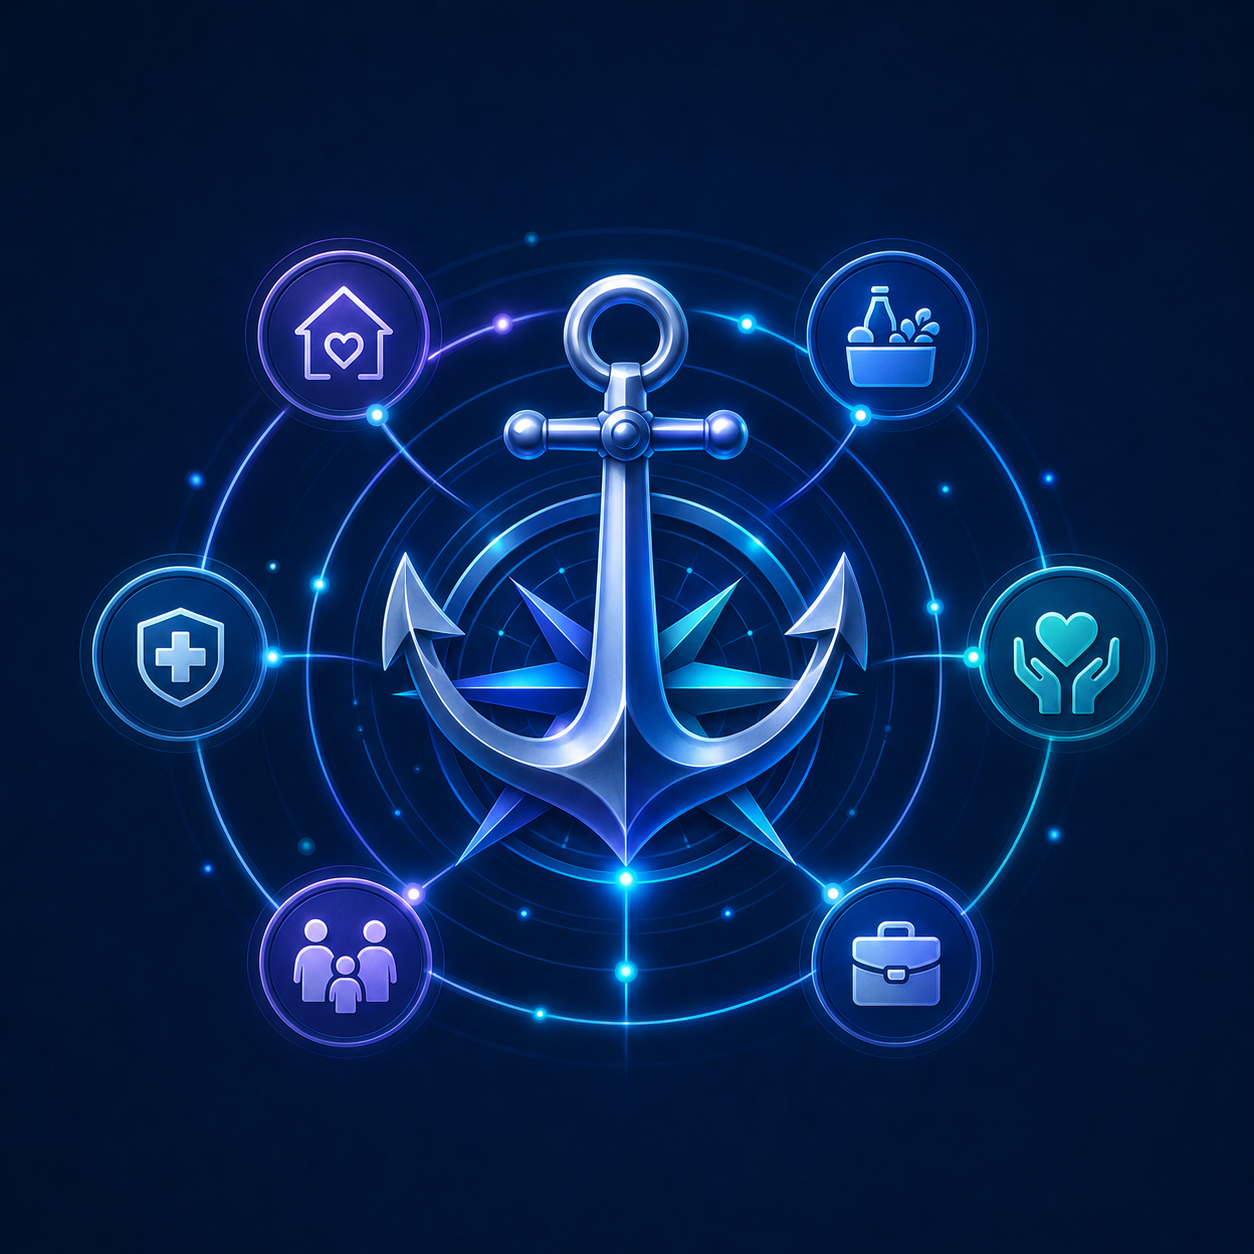
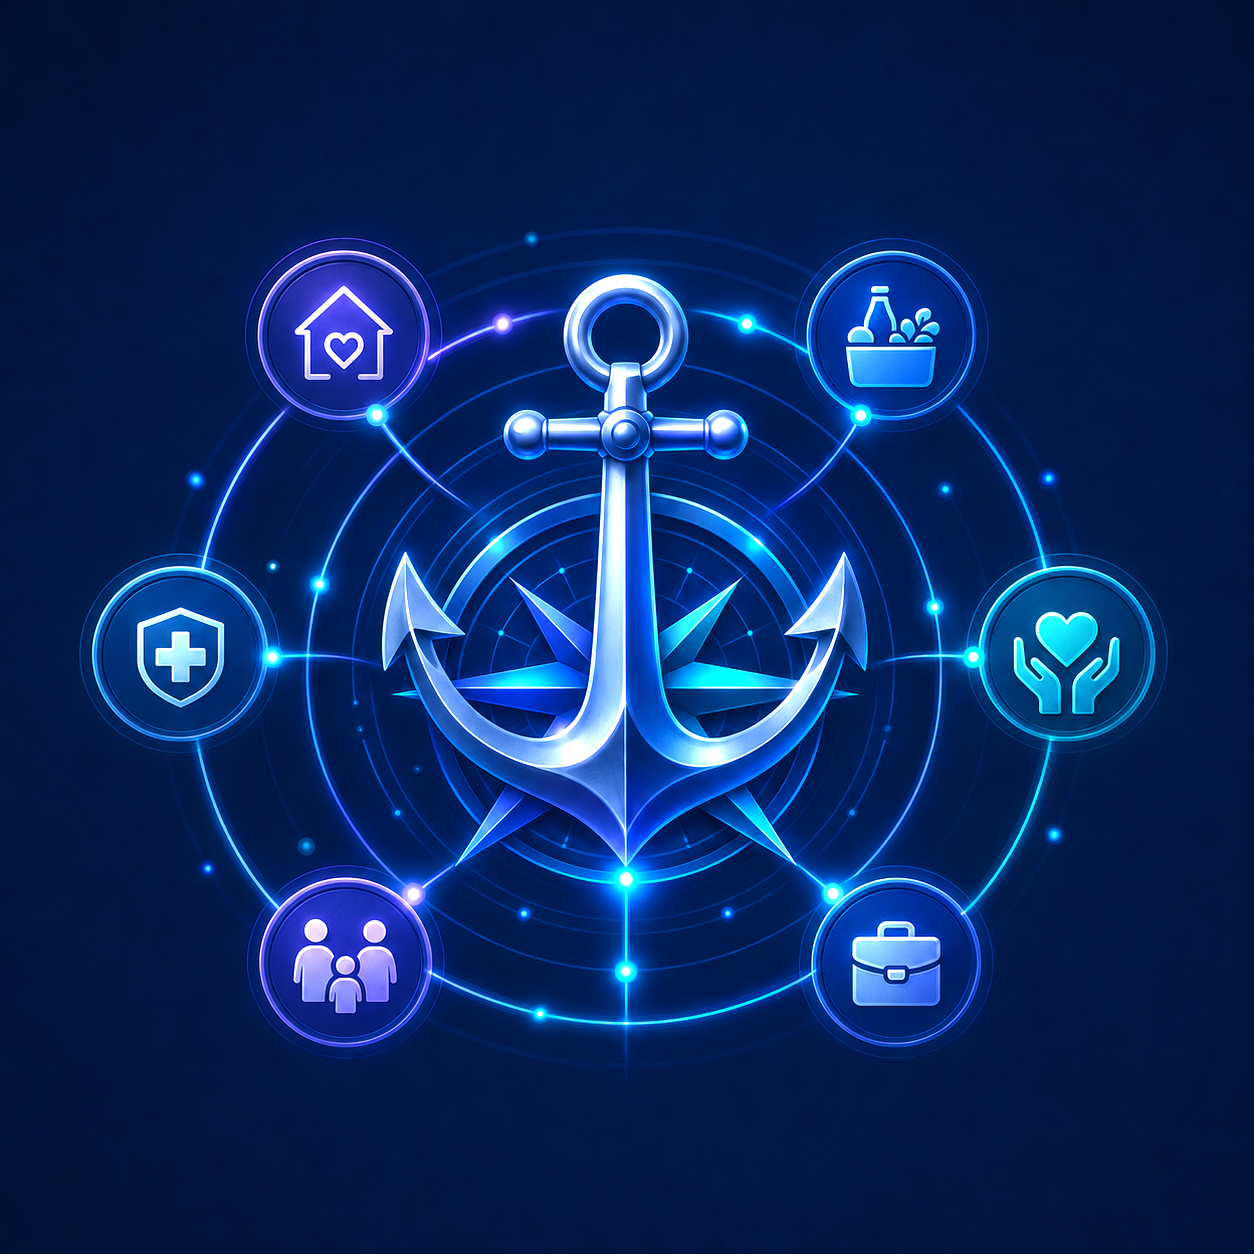
Update Anchor Point UI with imagery and app shell

Changed region(s): [[0.0622, 0.1866, 0.933, 0.8397]]

diff --git a/index.html b/index.html
@@ -1,12 +1,12 @@
-<!doctype html><html lang="en"><head><meta charset="utf-8"><meta name="viewport" content="width=device-width,initial-scale=1"><title>Anchor Point Resource Portal</title><link rel="stylesheet" href="assets/css/styles.css?v=1.9"></head><body data-page="home">
+<!doctype html><html lang="en"><head><meta charset="utf-8"><meta name="viewport" content="width=device-width,initial-scale=1"><title>Anchor Point Resource Portal</title><link rel="stylesheet" href="assets/css/styles.css?v=1.10"></head><body data-page="home">
 <div class="app">
 <aside class="rail"><a class="brand" href="index.html"><span class="logo">AP</span><span><strong>Anchor Point</strong><span>Resource Portal</span></span></a><nav class="nav"><a class="active" href="index.html"><i>⌘</i>Command</a><a href="resources.html"><i>⌕</i>Search</a><a href="guide.html"><i>▣</i>Guide Builder</a></nav><div class="rail-visual"><img src="assets/img/anchor-emblem.png" alt="Anchor Point network emblem"></div><div class="rail-meta"><span>Data source</span><b id="railRecordCount">Loading</b><span>Browser storage only. No caller data saved.</span></div></aside>
 <main class="main">
 <section class="topbar"><form class="command" id="homeSearchForm"><span class="icon">⌕</span><input id="homeSearch" aria-label="Search resources" placeholder="Search housing, food, benefits, recovery, ECTLC..."><button class="btn primary" type="submit">Search</button></form><div class="top-actions"><a class="btn" href="resources.html">Open Search</a><a class="btn" href="guide.html">Build Guide <span id="topSelectedCount">0</span></a></div></section>
-<section class="hero"><div class="hero-copy"><div class="kicker">Call Center Resource System <span class="version-pill">v1.9</span></div><h1>Find the right resource fast.</h1><p>A compact, search-first portal for Anchor Point staff. Browse verified resource records, select caller-ready referrals, and print dense custom guides without storing caller information.</p><div class="pill-row"><a class="pill hot" href="resources.html?urgency=Immediate%20(24%2F7)">Immediate 24/7</a><a class="pill" href="resources.html?q=shelter">Shelter</a><a class="pill" href="resources.html?q=benefits">Benefits</a><a class="pill" href="resources.html?q=job">Job Search</a><a class="pill" href="resources.html?q=ECTLC">ECTLC</a></div></div><div class="hero-img"><img src="assets/img/hero-anchor-network.png" alt="Anchor Point connected community resource network"></div></section>
+<section class="hero"><div class="hero-copy"><div class="kicker">Call Center Resource System <span class="version-pill">v1.10</span></div><h1>Find the right resource fast.</h1><p>A compact, search-first portal for Anchor Point staff. Browse verified resource records, select caller-ready referrals, and print dense custom guides without storing caller information.</p><div class="pill-row"><a class="pill hot" href="resources.html?urgency=Immediate%20(24%2F7)">Immediate 24/7</a><a class="pill" href="resources.html?q=shelter">Shelter</a><a class="pill" href="resources.html?q=benefits">Benefits</a><a class="pill" href="resources.html?q=job">Job Search</a><a class="pill" href="resources.html?q=ECTLC">ECTLC</a></div></div><div class="hero-img"><img src="assets/img/hero-anchor-network.png" alt="Anchor Point connected community resource network"></div></section>
 <section class="grid-3"><div class="compact-card"><span class="num" id="statRecords">-</span><strong>Resource records</strong><p>Loaded from corrected JSON.</p></div><div class="compact-card"><span class="num" id="statCategories">-</span><strong>Categories</strong><p>Filtered by need, urgency, population, and location.</p></div><div class="compact-card"><span class="num" id="statSelected">0</span><strong>Selected for guide</strong><p>Selections stay in this browser only.</p></div></section>
 <section class="section-head"><div><h2>Common workflows</h2><p>Start from caller need, not organization name.</p></div><a class="btn" href="resources.html">Full resource browser</a></section>
 <section class="grid-3"><a class="compact-card" href="resources.html?workflow=food"><strong>Food / EBT</strong><p>CalFresh, food pantry, nutrition resources.</p></a><a class="compact-card" href="resources.html?workflow=housing"><strong>Housing / Shelter</strong><p>Shelter, outreach, emergency housing, coordinated entry.</p></a><a class="compact-card" href="resources.html?workflow=recovery"><strong>Recovery / Health</strong><p>SUD, behavioral health, medical, crisis lines.</p></a><a class="compact-card" href="resources.html?workflow=documents"><strong>ID / Documents</strong><p>Vital records, mail services, identification help.</p></a><a class="compact-card" href="resources.html?workflow=families"><strong>Families</strong><p>Family support, children, school-based services.</p></a><a class="compact-card" href="resources.html?workflow=jobs"><strong>Job Search</strong><p>Workforce and job application resources.</p></a></section>
 </main>
 <aside class="tray" id="guideTray"><button class="btn mobile-tray-toggle" id="trayToggle">Selected Guide</button><div class="tray-head"><h2>Guide Tray</h2><button class="mini-btn tray-hide" id="trayHideBtn" type="button">Hide</button></div><div class="tray-sub"><span id="trayCount">0</span> selected resources</div><div class="guide-list" id="selectedList"><div class="empty">No resources selected yet.</div></div><div class="drawer-actions"><a class="btn primary" href="guide.html">Open Guide</a><button class="btn" id="copyGuideBtn">Copy</button><button class="btn" id="printGuideBtn">Print</button><button class="btn danger" id="clearSelectedBtn">Clear</button></div></aside>
-</div><div id="printArea" class="print-area"></div><script src="assets/js/app.js?v=1.9"></script></body></html>
+</div><div id="printArea" class="print-area"></div><script src="assets/js/app.js?v=1.10"></script></body></html>

diff --git a/resources.html b/resources.html
@@ -1,8 +1,8 @@
-<!doctype html><html lang="en"><head><meta charset="utf-8"><meta name="viewport" content="width=device-width,initial-scale=1"><title>Resource Search | Anchor Point</title><link rel="stylesheet" href="assets/css/styles.css?v=1.9"></head><body data-page="resources">
+<!doctype html><html lang="en"><head><meta charset="utf-8"><meta name="viewport" content="width=device-width,initial-scale=1"><title>Resource Search | Anchor Point</title><link rel="stylesheet" href="assets/css/styles.css?v=1.10"></head><body data-page="resources">
 <div class="app"><aside class="rail"><a class="brand" href="index.html"><span class="logo">AP</span><span><strong>Anchor Point</strong><span>Resource Portal</span></span></a><nav class="nav"><a href="index.html"><i>⌘</i>Command</a><a class="active" href="resources.html"><i>⌕</i>Search</a><a href="guide.html"><i>▣</i>Guide Builder</a></nav><div class="rail-visual"><img src="assets/img/dashboard-browser.png" alt="Anchor Point resource browser concept"></div><div class="rail-meta"><span>Data source</span><b id="railRecordCount">Loading</b><span>Corrected Summary Tab JSON.</span></div></aside>
 <main class="main"><section class="topbar"><form class="command" id="searchForm"><span class="icon">⌕</span><input id="q" aria-label="Search resources" placeholder="Search need, organization, phone, location, notes..."><button class="btn primary" type="submit">Search</button></form><div class="top-actions"><button class="btn" id="trayCollapseBtn" type="button">Show Tray</button><a class="btn" href="guide.html">Open Guide <span id="topSelectedCount">0</span></a></div></section>
 <section class="search-tip">Tip: Use quotes for exact phrase search, for example <code>&quot;crisis house&quot;</code>. Manual searches require all typed words to match. Workflow buttons use broader related-term matching.</section>
 <section class="panel"><div class="filters"><div class="field"><label>Keyword</label><input id="keyword" aria-label="Keyword search" placeholder="housing, shelter, ECTLC, CalFresh..."></div><div class="field"><label>Category</label><select id="category"><option value="">All categories</option></select></div><div class="field"><label>Urgency</label><select id="urgency"><option value="">All urgency levels</option></select></div><div class="field"><label>Population</label><select id="population"><option value="">All populations</option></select></div><div class="field"><label>Location contains</label><input id="location" aria-label="Location contains" placeholder="El Cajon, East County..."></div><button class="btn" id="clearFilters" type="button">Clear Search</button></div></section>
 <section class="workflow-context" id="activeWorkflow"></section>
 <section class="toolbar"><div><strong id="resultCount">Loading</strong> <span id="filterSummary"></span> <span class="selected-inline">Selected: <b id="selectedInlineCount">0</b></span></div><div class="toolbar-actions"><label>Sort <select id="sortMode"><option value="urgency">Urgency</option><option value="name">Name</option><option value="category">Category</option><option value="verified">Verified Date</option></select></label><label>View <select id="viewMode"><option value="cards">Cards</option><option value="list">Compact List</option></select></label><button class="mini-btn" id="showSelectedBtn">Show Selected</button><button class="mini-btn danger" id="clearSelectedBtn">Clear Selected</button></div></section><section class="results" id="results"><div class="empty">Loading resources...</div></section></main>
-<aside class="tray" id="guideTray"><button class="btn mobile-tray-toggle" id="trayToggle">Selected Guide</button><div class="tray-head"><h2>Guide Tray</h2><button class="mini-btn tray-hide" id="trayHideBtn" type="button">Hide</button></div><div class="tray-sub"><span id="trayCount">0</span> selected resources</div><div class="guide-list" id="selectedList"><div class="empty">No resources selected yet.</div></div><div class="drawer-actions"><a class="btn primary" href="guide.html">Open Guide</a><button class="btn" id="copyGuideBtn">Copy</button><button class="btn" id="printGuideBtn">Print</button><button class="btn danger" id="clearSelectedBtn2">Clear</button></div></aside></div><div id="printArea" class="print-area"></div><script src="assets/js/app.js?v=1.9"></script></body></html>
+<aside class="tray" id="guideTray"><button class="btn mobile-tray-toggle" id="trayToggle">Selected Guide</button><div class="tray-head"><h2>Guide Tray</h2><button class="mini-btn tray-hide" id="trayHideBtn" type="button">Hide</button></div><div class="tray-sub"><span id="trayCount">0</span> selected resources</div><div class="guide-list" id="selectedList"><div class="empty">No resources selected yet.</div></div><div class="drawer-actions"><a class="btn primary" href="guide.html">Open Guide</a><button class="btn" id="copyGuideBtn">Copy</button><button class="btn" id="printGuideBtn">Print</button><button class="btn danger" id="clearSelectedBtn2">Clear</button></div></aside></div><div id="printArea" class="print-area"></div><script src="assets/js/app.js?v=1.10"></script></body></html>

diff --git a/assets/css/styles.css b/assets/css/styles.css
@@ -161,3 +161,36 @@ body[data-page="resources"] .top-actions{white-space:nowrap;}
     grid-template-columns:1fr!important;
   }
 }
+
+/* V1.10 final fit-and-polish refinements */
+.version-pill{display:inline-flex;align-items:center;justify-content:center;margin-left:6px;padding:2px 6px;border-radius:999px;background:rgba(40,240,198,.12);border:1px solid rgba(40,240,198,.28);color:#8ffbea;font-size:10px;letter-spacing:.06em;vertical-align:middle;white-space:nowrap;}
+.hero-img img,.rail-visual img{filter:brightness(1.22) contrast(1.03) saturate(1.14)!important;opacity:1!important;}
+.hero-img:before{background:linear-gradient(90deg,rgba(15,28,51,.72) 0%,rgba(15,28,51,.28) 30%,rgba(15,28,51,.04) 76%,transparent 100%)!important;}
+.rail-visual:after{background:linear-gradient(180deg,rgba(7,17,32,.08),rgba(7,17,32,.52))!important;}
+.drawer-actions .btn,.drawer-actions a.btn,.card-actions .mini-btn,.top-actions .btn{display:inline-flex;align-items:center;justify-content:center;text-align:center;line-height:1.05;}
+.drawer-actions .btn,.drawer-actions a.btn{min-height:38px;white-space:nowrap;}
+body[data-page="resources"] .app{width:100%;max-width:100vw;margin:0;grid-template-columns:220px minmax(0,1fr) 280px!important;gap:10px;padding:8px 12px!important;overflow:hidden;}
+body[data-page="resources"] .app.tray-collapsed{grid-template-columns:220px minmax(0,1fr)!important;padding-right:14px!important;}
+body[data-page="resources"] .main{min-width:0;max-width:100%;overflow:hidden;}
+body[data-page="resources"] .topbar{grid-template-columns:minmax(0,1fr) auto!important;gap:8px;min-width:0;}
+body[data-page="resources"] .command{min-width:0;height:48px;border-radius:14px;}
+body[data-page="resources"] .command input{min-width:0;}
+body[data-page="resources"] .top-actions{display:flex;flex:0 0 auto;gap:6px;min-width:max-content;}
+body[data-page="resources"] .top-actions .btn{min-width:86px;padding:8px 10px;border-radius:11px;white-space:nowrap;}
+body[data-page="resources"] .search-tip{padding:7px 10px;font-size:12px;line-height:1.25;}
+body[data-page="resources"] .panel{padding:10px;overflow:hidden;}
+body[data-page="resources"] .filters{grid-template-columns:minmax(140px,.95fr) minmax(168px,1.25fr) minmax(132px,.8fr) minmax(165px,1fr) minmax(145px,.85fr) auto!important;gap:7px;align-items:end;}
+body[data-page="resources"] .filters .field{min-width:0;}
+body[data-page="resources"] input,body[data-page="resources"] select{min-width:0;min-height:36px;padding:8px 9px;border-radius:10px;}
+body[data-page="resources"] .toolbar{min-width:0;display:flex;flex-wrap:wrap;gap:8px;}
+body[data-page="resources"] .toolbar-actions{min-width:0;}
+body[data-page="resources"] .results{grid-template-columns:repeat(2,minmax(0,1fr))!important;gap:10px!important;width:100%;max-width:100%;overflow:visible!important;}
+body[data-page="resources"] .app.tray-collapsed .results{grid-template-columns:repeat(2,minmax(0,1fr))!important;}
+body[data-page="resources"] .resource-card{min-width:0;max-width:100%;overflow:hidden;}
+body[data-page="resources"] .tray{width:100%;max-width:280px;}
+body[data-page="resources"] .floating-show-tray{right:14px;bottom:18px;min-width:130px;}
+.status{min-width:76px!important;max-width:86px!important;padding:4px 6px!important;}
+.status b{font-size:9.8px!important;}.status small{font-size:7.8px!important;}
+@media(min-width:2050px){body[data-page="resources"] .app.tray-collapsed .results{grid-template-columns:repeat(3,minmax(0,1fr))!important;}}
+@media(max-width:1500px){body[data-page="resources"] .app,body[data-page="resources"] .app.tray-collapsed{grid-template-columns:208px minmax(0,1fr)!important;}body[data-page="resources"] .tray{display:none!important;}body[data-page="resources"] .results,body[data-page="resources"] .app.tray-collapsed .results{grid-template-columns:repeat(2,minmax(0,1fr))!important;}body[data-page="resources"] .filters{grid-template-columns:1fr 1fr 1fr!important;}body[data-page="resources"] .filters .btn{grid-column:auto;}}
+@media(max-width:1050px){body[data-page="resources"] .results,body[data-page="resources"] .app.tray-collapsed .results{grid-template-columns:1fr!important;}body[data-page="resources"] .filters{grid-template-columns:1fr 1fr!important;}body[data-page="resources"] .topbar{grid-template-columns:1fr!important;}body[data-page="resources"] .top-actions{justify-content:flex-end;}}

diff --git a/guide.html b/guide.html
@@ -1,5 +1,5 @@
-<!doctype html><html lang="en"><head><meta charset="utf-8"><meta name="viewport" content="width=device-width,initial-scale=1"><title>Guide Builder | Anchor Point</title><link rel="stylesheet" href="assets/css/styles.css?v=1.9"></head><body data-page="guide">
+<!doctype html><html lang="en"><head><meta charset="utf-8"><meta name="viewport" content="width=device-width,initial-scale=1"><title>Guide Builder | Anchor Point</title><link rel="stylesheet" href="assets/css/styles.css?v=1.10"></head><body data-page="guide">
 <div class="app"><aside class="rail"><a class="brand" href="index.html"><span class="logo">AP</span><span><strong>Anchor Point</strong><span>Resource Portal</span></span></a><nav class="nav"><a href="index.html"><i>⌘</i>Command</a><a href="resources.html"><i>⌕</i>Search</a><a class="active" href="guide.html"><i>▣</i>Guide Builder</a></nav><div class="rail-visual"><img src="assets/img/support-command.png" alt="Call center support command center"></div><div class="rail-meta"><span>Selected</span><b id="railRecordCount"><span id="topSelectedCount">0</span></b><span>Caller context remains browser-only.</span></div></aside>
 <main class="main"><section class="topbar"><form class="command" id="guideSearchForm"><span class="icon">⌕</span><input id="guideQuickSearch" aria-label="Find matching resources" placeholder="Find matching resources from caller need..."><button class="btn primary" type="submit">Find</button></form><div class="top-actions"><button class="btn" id="copyGuideBtn">Copy Guide</button><button class="btn primary" id="printGuideBtn">Print Guide</button></div></section>
 <section class="guide-page"><div class="panel"><div class="section-head"><div><h2>Caller context</h2><p>Used only to format and match resources.</p></div></div><div class="field"><label>Caller need</label><input id="callerNeed" aria-label="Caller need" placeholder="shelter, benefits, recovery, food..."></div><div class="field"><label>Caller location</label><input id="callerLocation" aria-label="Caller location" placeholder="El Cajon, East County, San Diego..."></div><div class="field"><label>Population</label><input id="callerPopulation" aria-label="Caller population" placeholder="family, adult, senior, veteran, youth..."></div><div class="field"><label>Notes</label><textarea id="callerNotes" aria-label="Caller notes" rows="4" placeholder="Urgency, documents, transportation, special concerns..."></textarea></div><div class="pill-row"><button class="btn primary" id="findMatchesBtn" type="button">Find Matching Resources</button><a class="btn" href="resources.html">Add from Search</a></div><div class="section-head"><div><h2>Suggested matches</h2><p>Based on need, location, population.</p></div></div><div id="matchResults" class="guide-list"><div class="empty">Enter caller context and click Find Matching Resources.</div></div></div><div class="guide-preview"><div class="preview-sheet" id="guidePreview"></div></div></section></main>
-<aside class="tray" id="guideTray"><div class="tray-head"><h2>Selected Resources</h2><button class="mini-btn tray-hide" id="trayHideBtn" type="button">Hide</button></div><div class="tray-sub"><span id="trayCount">0</span> selected resources</div><div class="guide-list" id="selectedList"><div class="empty">No resources selected yet.</div></div><div class="drawer-actions"><button class="btn" id="copyGuideBtn2">Copy</button><button class="btn primary" id="printGuideBtn2">Print</button><button class="btn danger" id="clearSelectedBtn">Clear</button></div></aside></div><div id="printArea" class="print-area"></div><script src="assets/js/app.js?v=1.9"></script></body></html>
+<aside class="tray" id="guideTray"><div class="tray-head"><h2>Selected Resources</h2><button class="mini-btn tray-hide" id="trayHideBtn" type="button">Hide</button></div><div class="tray-sub"><span id="trayCount">0</span> selected resources</div><div class="guide-list" id="selectedList"><div class="empty">No resources selected yet.</div></div><div class="drawer-actions"><button class="btn" id="copyGuideBtn2">Copy</button><button class="btn primary" id="printGuideBtn2">Print</button><button class="btn danger" id="clearSelectedBtn">Clear</button></div></aside></div><div id="printArea" class="print-area"></div><script src="assets/js/app.js?v=1.10"></script></body></html>

diff --git a/assets/js/app.js b/assets/js/app.js
@@ -1,6 +1,6 @@
-const DATA_URL = 'data/resources.json?v=1.9';
-const META_URL = 'data/resources_metadata.json?v=1.9';
-const STORE = 'anchorPoint.selected.v19';
+const DATA_URL = 'data/resources.json?v=1.10';
+const META_URL = 'data/resources_metadata.json?v=1.10';
+const STORE = 'anchorPoint.selected.v110';
 const LEGACY_STORES = [
   'anchorPoint.selected',
   'anchorPoint.selected.v18',
@@ -44,8 +44,8 @@ function clearSelectionStorage(){
 let selected = new Set(readSelectedIds());
 let showingSelectedOnly = false;
 let activeWorkflow = '';
-let viewMode = localStorage.getItem('anchorPoint.viewMode.v19') || 'cards';
-let sortMode = localStorage.getItem('anchorPoint.sortMode.v19') || 'urgency';
+let viewMode = localStorage.getItem('anchorPoint.viewMode.v110') || 'cards';
+let sortMode = localStorage.getItem('anchorPoint.sortMode.v110') || 'urgency';
 const page = document.body.dataset.page || 'home';
 const $ = (id) => document.getElementById(id);
 const $$ = (sel) => Array.from(document.querySelectorAll(sel));
@@ -221,7 +221,7 @@ function setTrayCollapsed(collapsed){
   }else if(floating){
     floating.style.display = 'none';
   }
-  try{ sessionStorage.setItem('anchorPoint.trayCollapsed.v19', collapsed ? '1' : '0'); }catch(e){}
+  try{ sessionStorage.setItem('anchorPoint.trayCollapsed.v110', collapsed ? '1' : '0'); }catch(e){}
 }
 function toggleTrayCollapsed(){
   const app = document.querySelector('.app');
@@ -234,7 +234,7 @@ function wireCommon(){
   const tray=$('guideTray'); if($('trayToggle')) $('trayToggle').addEventListener('click',()=>tray.classList.toggle('open'));
   $$('[id="trayHideBtn"], [id="trayCollapseBtn"]').forEach(b=>b.addEventListener('click', toggleTrayCollapsed));
   try{
-    const storedTray = sessionStorage.getItem('anchorPoint.trayCollapsed.v19');
+    const storedTray = sessionStorage.getItem('anchorPoint.trayCollapsed.v110');
     if(page === 'resources'){
       setTrayCollapsed(storedTray === null ? true : storedTray === '1');
     }else if(storedTray === '1'){
@@ -251,8 +251,8 @@ function initResources(){
   if($('searchForm')) $('searchForm').addEventListener('submit',e=>{e.preventDefault(); activeWorkflow=''; $('keyword').value=$('q').value; renderResults();});
   if($('clearFilters')) $('clearFilters').addEventListener('click',()=>{['keyword','category','urgency','population','location','q'].forEach(id=>{if($(id)) $(id).value='';}); showingSelectedOnly=false; activeWorkflow=''; renderResults();});
   if($('showSelectedBtn')) $('showSelectedBtn').addEventListener('click',()=>{showingSelectedOnly=!showingSelectedOnly; $('showSelectedBtn').textContent=showingSelectedOnly?'Show All':'Show Selected'; renderResults();});
-  if($('viewMode')) $('viewMode').addEventListener('change',e=>{viewMode=e.target.value; localStorage.setItem('anchorPoint.viewMode.v19',viewMode); renderResults();});
-  if($('sortMode')) $('sortMode').addEventListener('change',e=>{sortMode=e.target.value; localStorage.setItem('anchorPoint.sortMode.v19',sortMode); renderResults();});
+  if($('viewMode')) $('viewMode').addEventListener('change',e=>{viewMode=e.target.value; localStorage.setItem('anchorPoint.viewMode.v110',viewMode); renderResults();});
+  if($('sortMode')) $('sortMode').addEventListener('change',e=>{sortMode=e.target.value; localStorage.setItem('anchorPoint.sortMode.v110',sortMode); renderResults();});
   renderResults();
 }
 function getFilters(){return {kw:low($('keyword')?.value||$('q')?.value),cat:txt($('category')?.value),urg:txt($('urgency')?.value),pop:txt($('population')?.value),loc:low($('location')?.value)};}

diff --git a/README.md b/README.md
@@ -1,3 +1,3 @@
-Anchor Point Resource Portal v1.9
+Anchor Point Resource Portal v1.10
 
-Static GitHub Pages resource portal. Manual searches use strict all-keyword matching. Quoted searches use exact phrase matching.
+Final fit-and-polish pass: tighter Search layout, centered Guide Tray buttons, brighter imagery, and cache-busted assets.
